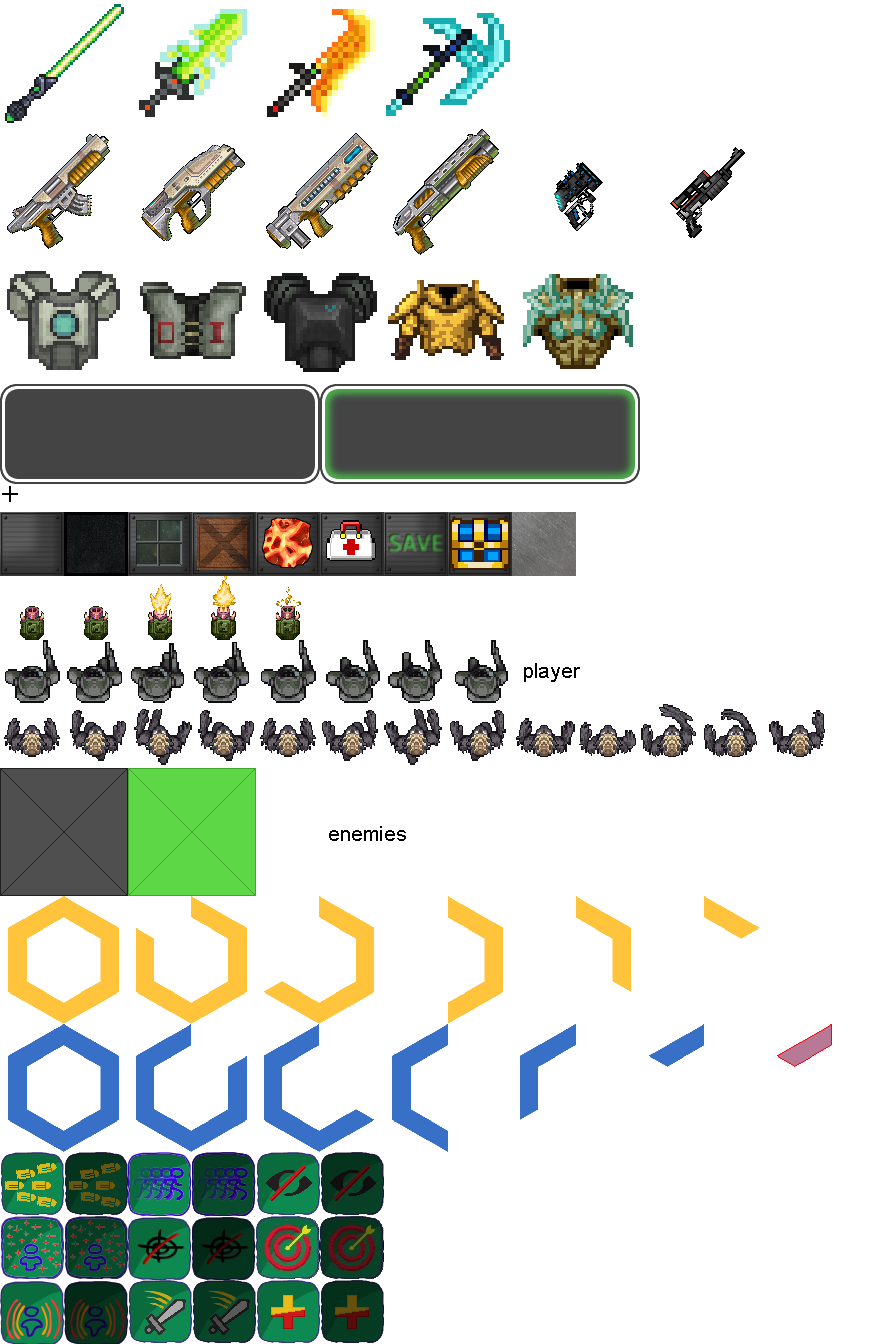
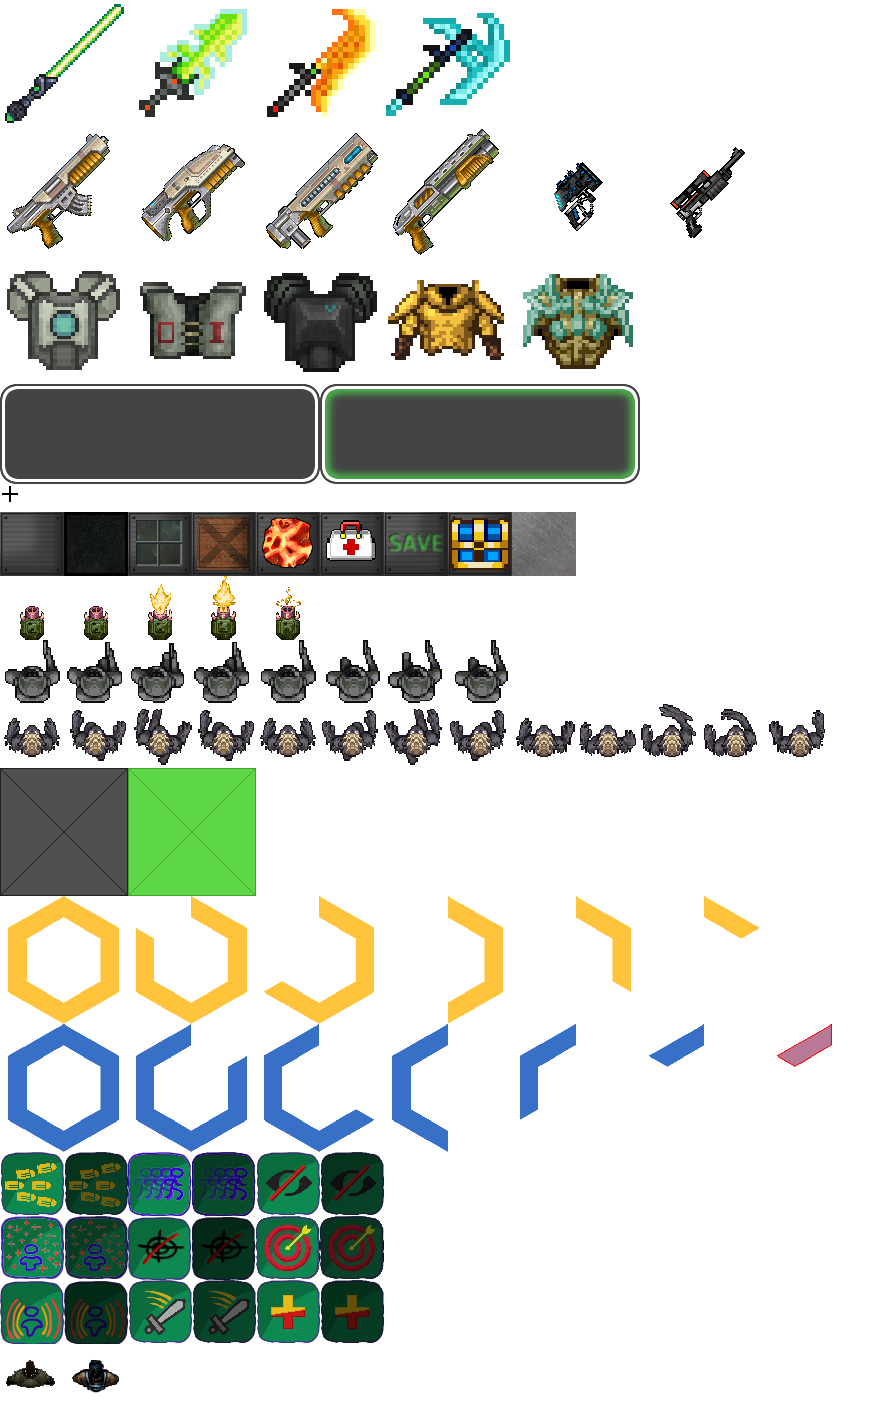
Alpha 1.04 Added custom cursor

diff --git a/Projekt RPG/Projekt RPG/Engine.cpp b/Projekt RPG/Projekt RPG/Engine.cpp
@@ -131,7 +131,7 @@ void Engine::setMap(RenderWindow &window, string filePath, unsigned short _id)
 	window.setView(view);
 }
 
-Engine::Engine(RenderWindow &_window, string characterName, int classCode)
+Engine::Engine(RenderWindow &_window, Sprite& cursor, string characterName, int classCode)
 {
 	view.setSize(1280, 720);
 	view.setCenter(1280 / 2, 720 / 2);
@@ -161,10 +161,10 @@ Engine::Engine(RenderWindow &_window, string characterName, int classCode)
 	}
 	setMap(_window, "levels/level1.level", 0);
 	gui.setSkillPictures(player->getClassName());
-	startEngine(_window);	
+	startEngine(_window, cursor);	
 }
 
-Engine::Engine(RenderWindow &_window, fstream &file)
+Engine::Engine(RenderWindow &_window, Sprite& cursor, fstream &file)
 {
 	view.setSize(1280, 720);
 	view.setCenter(1280 / 2, 720 / 2);
@@ -196,7 +196,7 @@ Engine::Engine(RenderWindow &_window, fstream &file)
 	file.close();
 	setMap(_window, levelPath, saveId);
 	gui.setSkillPictures(player->getClassName());
-	startEngine(_window);
+	startEngine(_window, cursor);
 }
 
 Engine::~Engine()
@@ -309,7 +309,7 @@ void Engine::fight(size_t enemyIndex, Engine::Attacker attacker)
 	
 }
 
-void Engine::draw(RenderWindow &window, bool pause, bool equipment, bool dead, bool levelMenu, short position)
+void Engine::draw(RenderWindow &window, Sprite& cursor, bool pause, bool equipment, bool dead, bool levelMenu, short position)
 {
 	window.clear();
 	gui.updateSkillCooldowns(window, player->getRatioSkill1(), player->getRatioSkill2(), player->getRatioSkill3());
@@ -342,6 +342,9 @@ void Engine::draw(RenderWindow &window, bool pause, bool equipment, bool dead, b
 	{
 		gui.drawLevelMenu(window);
 	}
+	if (checkCursor()) cursor.setTextureRect(IntRect(26, 0, 26, 32));
+	else cursor.setTextureRect(IntRect(0, 0, 26, 32));
+	window.draw(cursor);
 	window.display();
 }
 
@@ -389,7 +392,20 @@ void Engine::saveGame(unsigned short id)
 	file.close();
 }
 
-void Engine::startEngine(RenderWindow &window)
+bool Engine::checkCursor()
+{
+	Enemy* enemy;
+	for (size_t i = 0; i < npcs.size(); ++i)
+	{
+		if (enemy = dynamic_cast<Enemy*>(npcs[i]))
+		{
+			if (enemy->hasCursor()) return true;
+		}
+	}
+	return false;
+}
+
+void Engine::startEngine(RenderWindow &window, Sprite& cursor)
 {
 	bool quit = false;
 	bool pause = false;
@@ -399,14 +415,16 @@ void Engine::startEngine(RenderWindow &window)
 	bool attacked = false;
 	short position = -1;
 
-		updateMap();
+	updateMap();
 	window.setView(view);
-	draw(window, pause, equipment, dead, levelMenu, position);
+	draw(window, cursor, pause, equipment, dead, levelMenu, position);
 	while (!quit)
 	{
 		Event event;
 		Vector2f mouse(Mouse::getPosition(window));
 		Vector2f worldPos = window.mapPixelToCoords((Vector2i)mouse);
+
+		cursor.setPosition(worldPos);
 
 		if (!pause && !equipment && !dead && !levelMenu)
 		{
@@ -508,6 +526,10 @@ void Engine::startEngine(RenderWindow &window)
 						float distance, distanceTemp;
 						float sinus;
 						float cosinus;
+
+						if (enemy->getBoundingBox().contains(worldPos))	enemy->acquireCursor();
+						else enemy->loseCursor();
+
 						line[0].position = player->getPosition();
 						line[1].position = npcs[i]->getPosition();
 						distance = sqrt(pow(line[0].position.x - line[1].position.x, 2) + pow(line[0].position.y - line[1].position.y, 2));
@@ -763,6 +785,6 @@ void Engine::startEngine(RenderWindow &window)
 				}
 			}
 		}
-		draw(window, pause, equipment, dead, levelMenu, position);
+		draw(window, cursor, pause, equipment, dead, levelMenu, position);
 	}
 }

diff --git a/Projekt RPG/Projekt RPG/Game.cpp b/Projekt RPG/Projekt RPG/Game.cpp
@@ -16,8 +16,16 @@ Game::Game()
 		MessageBox(NULL, "Menu background not found!", "ERROR", NULL);
 		return;
 	}
+	if (!cursorTexture.loadFromFile("images/cursors.png"))
+	{
+		MessageBox(NULL, "Cursor files not found!", "ERROR", NULL);
+		return;
+	}
+	cursor.setTexture(cursorTexture);
+	cursor.setTextureRect(IntRect(0, 0, 26, 32));
 	state = MENU;
 	window.create(VideoMode(1280, 720), "Galaxy Guardian Alpha 1.04", Style::Titlebar);
+	window.setMouseCursorVisible(false);
 }
 
 Game::~Game()
@@ -59,6 +67,7 @@ void Game::menu()
 			else if ((text[numberOfOptions - 1].getGlobalBounds().contains(mouse)) && (event.type == Event::MouseButtonReleased) && (event.key.code == Mouse::Left)) state = END;
 		}
 
+		cursor.setPosition(mouse);
 		window.clear();
 		window.draw(background);
 		title.move(Vector2f(4, 4));
@@ -77,6 +86,7 @@ void Game::menu()
 			else text[i].setColor(Color::White);
 			window.draw(text[i]);
 		}
+		window.draw(cursor);
 		window.display();
 	}
 }
@@ -131,6 +141,7 @@ void Game::newGame()
 				if ((event.type == Event::MouseButtonReleased) && (event.key.code == Mouse::Left) && (classes[i].getGlobalBounds().contains(mouse))) checked = i + 1;
 			}
 		}
+		cursor.setPosition(mouse);
 		window.clear();
 		window.draw(background);
 		header.move(Vector2f(4, 4));
@@ -176,10 +187,11 @@ void Game::newGame()
 			else classes[i].setColor(Color::White);
 			window.draw(classes[i]);
 		}
+		window.draw(cursor);
 		window.display();
 	}
 	
-	Engine engine(window, characterName, checked);
+	Engine engine(window, cursor, characterName, checked);
 
 	state = MENU;
 }
@@ -194,7 +206,7 @@ void Game::loadGame()
 		state = MENU;
 		return;
 	}
-	Engine engine(window, file);
+	Engine engine(window, cursor, file);
 
 	state = MENU;
 }

diff --git a/Projekt RPG/Projekt RPG/Npc.cpp b/Projekt RPG/Projekt RPG/Npc.cpp
@@ -39,7 +39,10 @@ void Npc::setPosition(Tile::Coord coord)
 
 Neutral::Neutral(Tile::Coord spawnCoord) : Npc(spawnCoord)
 {
-	/*Reminder - dodac jakiegos npc...*/
+	short npcLook = rand() % 2; /*losowy wyglad npc, obecnie dostepne sa 2*/
+	sprite.setTextureRect(IntRect(0 + npcLook * 64, 1344, 64, 64));
+	sprite.setOrigin(32, 32);
+	sprite.setPosition(64.f * spawnCoord.x + 32.f, 64.f * spawnCoord.y + 32.f);
 }
 
 Neutral::~Neutral()
@@ -49,6 +52,7 @@ Neutral::~Neutral()
 
 Enemy::Enemy(Tile::Coord spawnCoord) : Npc(spawnCoord)
 {
+	cursor = false;
 	walkFrame = 0;
 	attackFrame = 0;
 	walkAnimationClock.restart();
@@ -59,7 +63,7 @@ Enemy::Enemy(Tile::Coord spawnCoord) : Npc(spawnCoord)
 	rot = static_cast<float>(rand() % 360);
 	sprite.setRotation(rot);
 	walkT = rand() % 500 + 1000;
-	idleT = rand() % 5000 + 7000;
+	idleT = rand() % 5000 + 4000;
 
 	alive = true;
 }
@@ -350,6 +354,21 @@ void Enemy::restartAttackInterval()
 unsigned Enemy::getExperienceGiven()
 {
 	return experienceGiven;
+}
+
+bool Enemy::hasCursor()
+{
+	return cursor;
+}
+
+void Enemy::acquireCursor()
+{
+	cursor = true;
+}
+
+void Enemy::loseCursor()
+{
+	cursor = false;
 }
 
 Gunner::Gunner(Tile::Coord spawnCoord) : Enemy(spawnCoord)

diff --git a/Projekt RPG/Projekt RPG/Engine.h b/Projekt RPG/Projekt RPG/Engine.h
@@ -20,14 +20,15 @@ private:
 	vector<vector<Sprite>> tileSprites; /*kontener sprite'ow kafli*/
 	unsigned short tileCountHeight; /*ilosc wyswietlanych kafli w pionie*/
 	unsigned short tileCountWidth; /*ilosc wyswietlanych kafli w poziomie*/
-	void draw(RenderWindow&, bool, bool, bool, bool, short);
+	void draw(RenderWindow&, Sprite&, bool, bool, bool, bool, short);
 	void setMap(RenderWindow&, string, unsigned short);
 	void updateMap();
 	void fight(size_t, Attacker);
 	void saveGame(unsigned short);
+	bool checkCursor();
 public:
-	Engine(RenderWindow&, string, int);
-	Engine(RenderWindow&, fstream&);
+	Engine(RenderWindow&, Sprite&, string, int);
+	Engine(RenderWindow&, Sprite&, fstream&);
 	~Engine();
-	void startEngine(RenderWindow&);
+	void startEngine(RenderWindow&, Sprite&);
 };

diff --git a/Projekt RPG/Projekt RPG/Npc.h b/Projekt RPG/Projekt RPG/Npc.h
@@ -52,7 +52,11 @@ public:
 	Clock getAttackInterval();
 	void restartAttackInterval();
 	unsigned getExperienceGiven();
+	bool hasCursor();
+	void acquireCursor();
+	void loseCursor();
 protected:
+	bool cursor;
 	float speed;
 	unsigned walkFrame;
 	unsigned walkFrameCount;

diff --git a/Projekt RPG/Projekt RPG/Game.h b/Projekt RPG/Projekt RPG/Game.h
@@ -12,6 +12,8 @@ private:
 	Font font;
 	RectangleShape background;
 	Texture texture;
+	Texture cursorTexture;
+	Sprite cursor;
 	void menu();
 	void newGame();
 	void loadGame();
